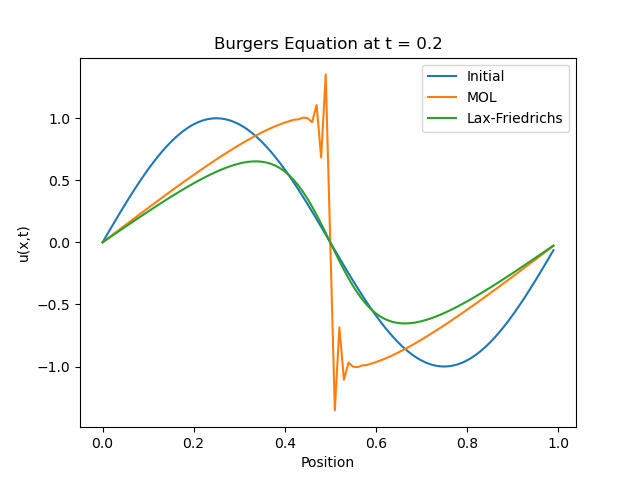
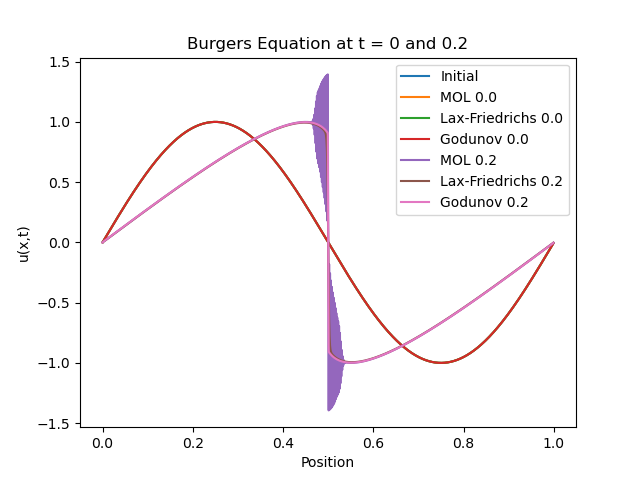
implemented godunov's scheme

diff --git a/burgers_equation_plot.py b/burgers_equation_plot.py
@@ -1,6 +1,7 @@
 import numpy as np
 from rk_methods import euler, explicit_rk2, implicit_rk2
 import matplotlib.pyplot as plt
+from godunov import godunov
 
 def burgers_equation(u, dx, points):
 
@@ -17,12 +18,12 @@ def burgers_equation(u, dx, points):
 
     return dudt
 
-N = 100
+N = 1000
 x = np.linspace(0, 1, N, endpoint=False)
 dx = x[1] - x[0]
 
 T = 0.2
-dt = 0.001
+dt = 0.0005
 steps = int(T/dt)
 
 initial_values = np.sin(2 * np.pi * x)
@@ -54,11 +55,12 @@ def lax_friedrichs(u, dx, dt, points):
 
     for i in range(1, points - 1):
         new_u[i] = 0.5 * (u[i+1] + u[i-1]) - dt / (2*dx) * (flux[i+1] - flux[i-1])
+
     new_u[-1] = 0.5 * (u[0] + u[-2]) - dt / (2 * dx) * (flux[0] - flux[-2])
 
     return new_u
 
-values_lax = np.sin(2 * np.pi * x)
+values_lax = initial_values.copy()
 
 solution_lax = np.zeros((steps + 1, N))
 solution_lax[0] = values_lax
@@ -66,6 +68,33 @@ solution_lax[0] = values_lax
 for step in range(steps):
     values_lax = lax_friedrichs(values_lax, dx, dt, N)
     solution_lax[step + 1] = values_lax
+
+values_godunov = initial_values.copy()
+
+solution_godunov = np.zeros((steps + 1, N))
+solution_godunov[0] = values_godunov
+
+for step in range(steps):
+
+    flux_godunov = np.zeros(N)
+
+    for i in range(N):
+        uL = values_godunov[i]
+        uR = values_godunov[(i + 1) % N]
+
+        flux_godunov[i] = godunov(uL, uR)
+
+    new_values_godunov = np.zeros_like(values_godunov)
+
+    for i in range(N):
+
+        dudt_i = -(flux_godunov[i] - flux_godunov[i - 1]) / dx
+
+        new_values_godunov[i] = values_godunov[i] + dt * dudt_i
+
+    values_godunov = new_values_godunov
+
+    solution_godunov[step + 1] = values_godunov
 
 plt.figure(figsize=(10, 6))
 plt.imshow(solution_mol, aspect='auto', extent=[0, 1, 0, T], origin='lower')
@@ -85,13 +114,26 @@ plt.title('Burgers Equation Evolution Lax-Friedrichs')
 plt.savefig("burgers_equation_lax.png")
 plt.show()
 
+plt.figure(figsize=(10, 6))
+plt.imshow(solution_godunov, aspect='auto', extent=[0, 1, 0, T], origin='lower')
+plt.colorbar(label='u(x,t)')
+plt.xlabel('Position')
+plt.ylabel('Time')
+plt.title('Burgers Equation Evolution Godunov')
+plt.savefig("burgers_equation_godunov.png")
+plt.show()
+
 plt.plot(x, initial_values, label="Initial")
-plt.plot(x, solution_mol[-1], label="MOL")
-plt.plot(x, solution_lax[-1], label="Lax-Friedrichs")
+plt.plot(x, solution_mol[0], label="MOL 0.0")
+plt.plot(x, solution_lax[0], label="Lax-Friedrichs 0.0")
+plt.plot(x, solution_godunov[0], label="Godunov 0.0")
+plt.plot(x, solution_mol[-1], label="MOL 0.2")
+plt.plot(x, solution_lax[-1], label="Lax-Friedrichs 0.2")
+plt.plot(x, solution_godunov[-1], label="Godunov 0.2")
 
 plt.xlabel("Position")
 plt.ylabel("u(x,t)")
-plt.title("Burgers Equation at t = 0.2")
+plt.title("Burgers Equation at t = 0 and 0.2")
 plt.legend()
 plt.savefig("burgers_equation_final.png")
 plt.show()

diff --git a/godunov.py b/godunov.py
@@ -1,0 +1,26 @@
+import numpy as np
+def godunov(uL, uR):
+    """
+    Computes the Godunov flux for the Burgers' equation given left and right states.
+
+    Parameters:
+    uL : float
+        The value of the solution to the left of the interface.
+    uR : float
+        The value of the solution to the right of the interface.
+
+    Returns:
+    flux : float
+        The Godunov flux at the interface.
+    """
+    if (uL <= 0) and (uR >= 0):
+        flux = 0.0
+    elif (uL >= 0) and (uR >= 0):
+        flux = uL**2 / 2
+    elif (uL + uR) / 2 >= 0:
+        flux = uL**2 / 2
+    elif (uL + uR) / 2 < 0:
+        flux = uR**2 / 2
+    elif (uL <= 0) and (uR <= 0):
+        flux = uR**2 / 2
+    return flux
